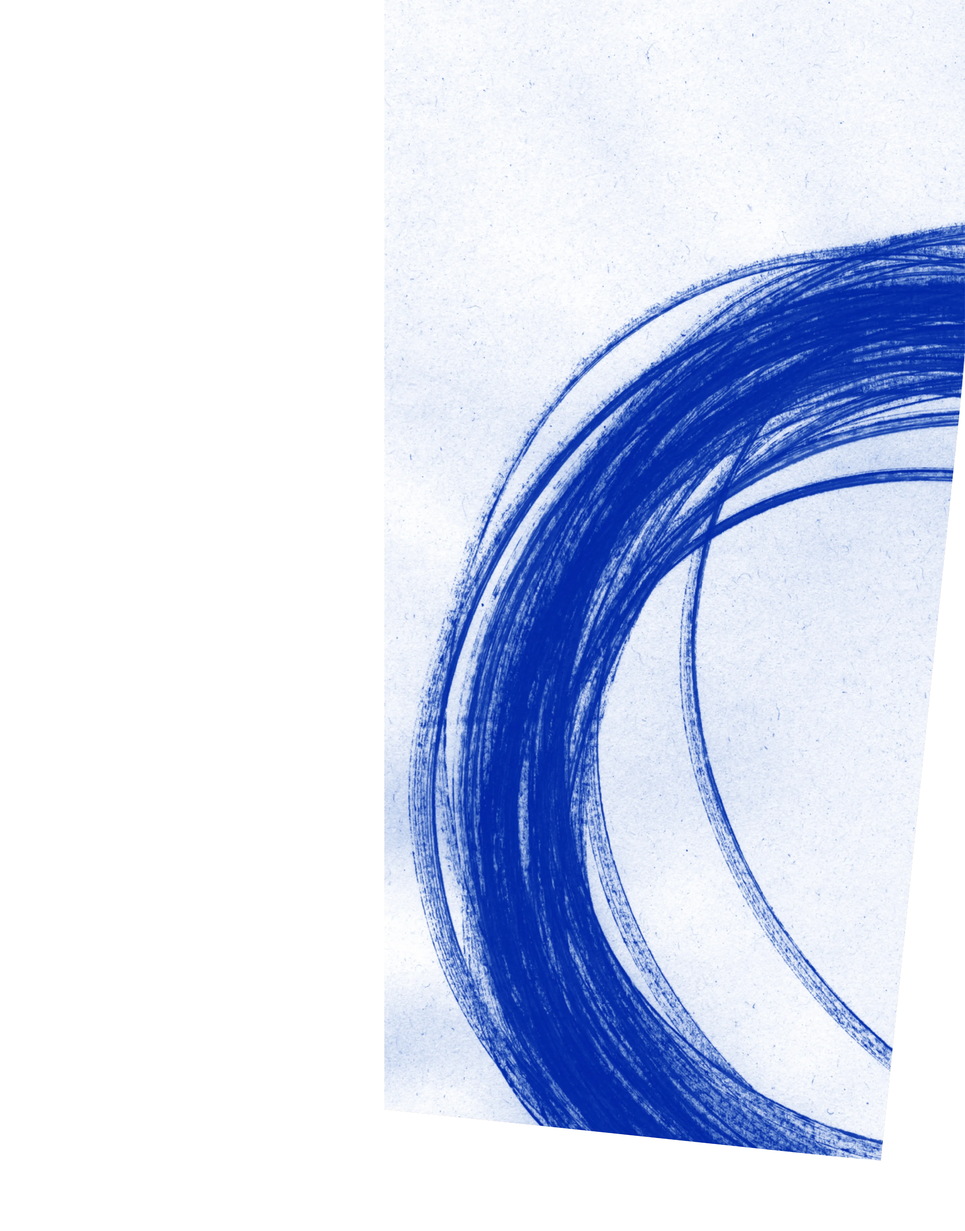
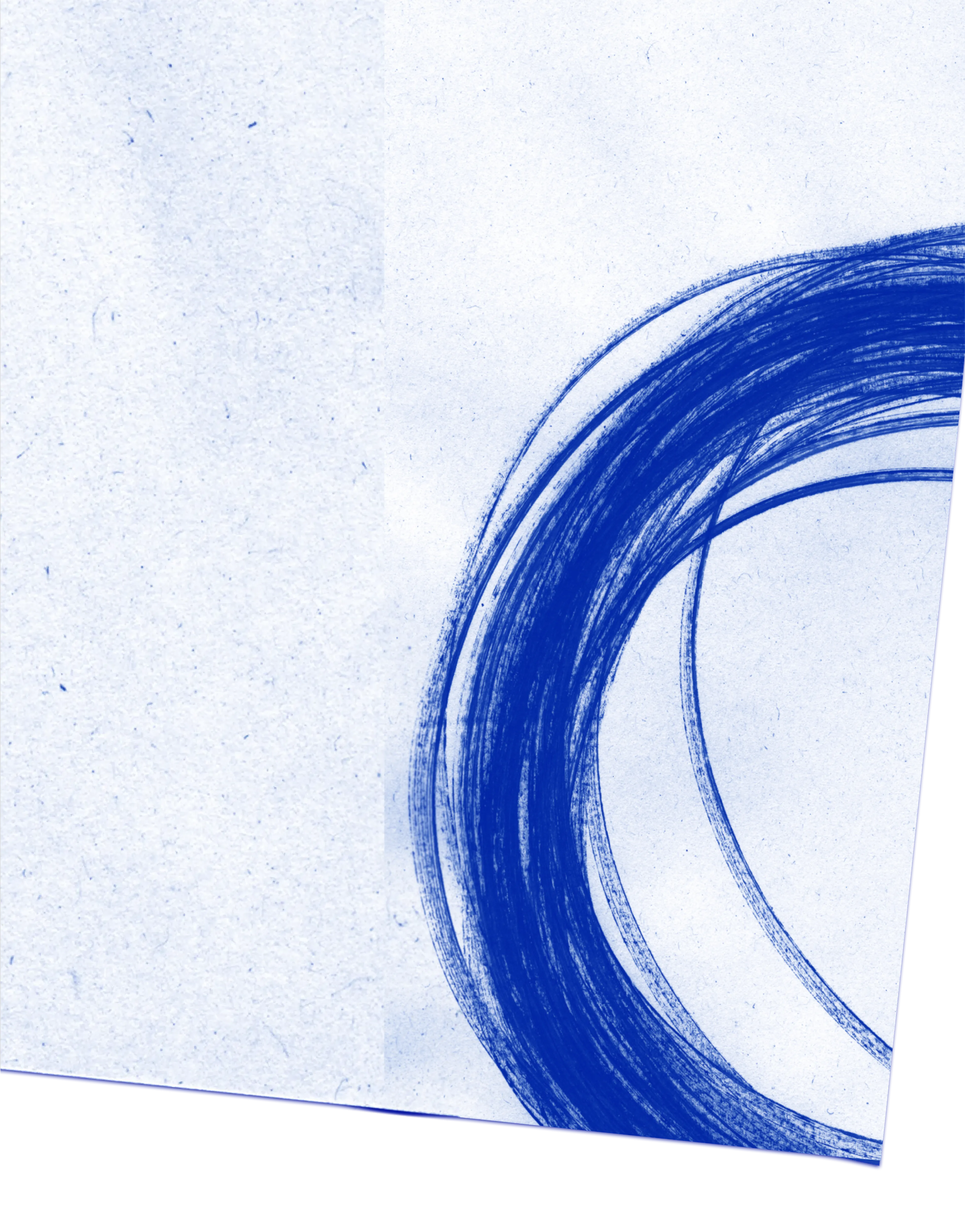
Blur borderline

diff --git a/src/app/layout.tsx b/src/app/layout.tsx
@@ -58,31 +58,35 @@ export default function RootLayout({
                 <IconAndMenu />
               </div>
               <Base />
-              <Image
-                src="/mobile/scan.webp"
-                alt="スキャン"
-                fill
-                className="
-                sm:hidden 
-                absolute top-0 right-0 
-                h-screen w-full 
-                object-cover object-right"
-              />
-              <Image
-                src="/scan.webp"
-                alt="スキャン"
-                fill
-                className="
-                hidden sm:block 
-                absolute top-0 right-0 
-                h-screen w-full 
-                object-cover object-right"
-              />
+              <div className="isolate">
+                <Image
+                  src="/mobile/scan.webp"
+                  alt="スキャン"
+                  fill
+                  className="
+                  sm:hidden 
+                  absolute top-0 right-0 
+                  h-screen w-full 
+                  object-cover object-right
+                  mix-blend-darken
+                  z-10"
+                />
+                <Image
+                  src="/scan.webp"
+                  alt="スキャン"
+                  fill
+                  className="
+                  hidden sm:block 
+                  absolute top-0 right-0 
+                  h-screen w-full 
+                  object-cover object-right"
+                />
+              </div>
+              <PageTransition>
+                {children}
+                {modal}
+              </PageTransition>
             </div>
-            <PageTransition>
-              {children}
-              {modal}
-            </PageTransition>
             <div className="sm:hidden">
               <MobileMenu />
             </div>

diff --git a/src/app/page.tsx b/src/app/page.tsx
@@ -2,12 +2,12 @@ import Image from "next/image";
 
 export default function Home() {
   return (
-    <>
+    <div className="isolate">
       <Image
         src="/mobile/circle.webp"
         alt="円"
         fill
-        className="sm:hidden h-screen w-full object-cover object-right"
+        className="sm:hidden h-screen w-full object-cover object-right mix-blend-darken z-10"
       />
       <Image
         src="/circle.webp"
@@ -15,7 +15,7 @@ export default function Home() {
         fill
         className="hidden sm:block h-screen w-full object-cover object-right"
       />
-    </>
+    </div>
   );
 }
 
